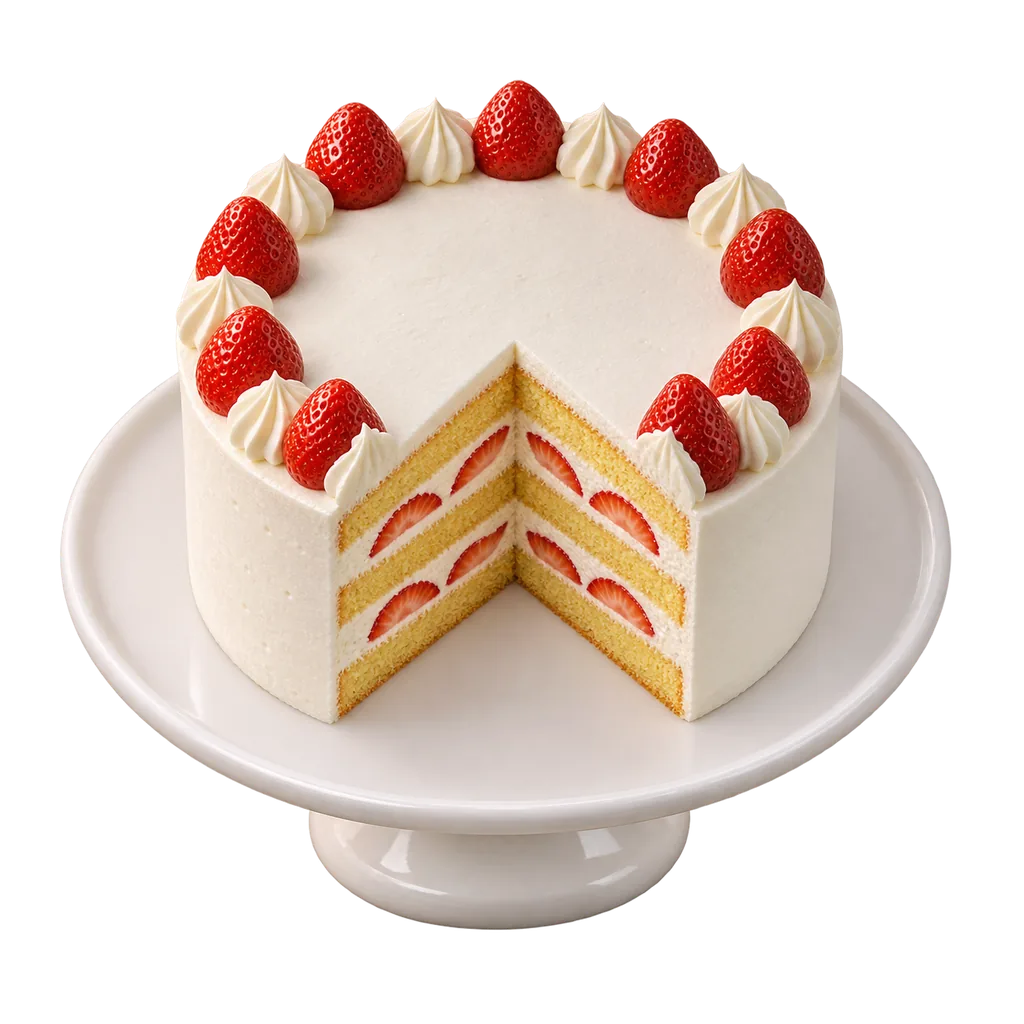
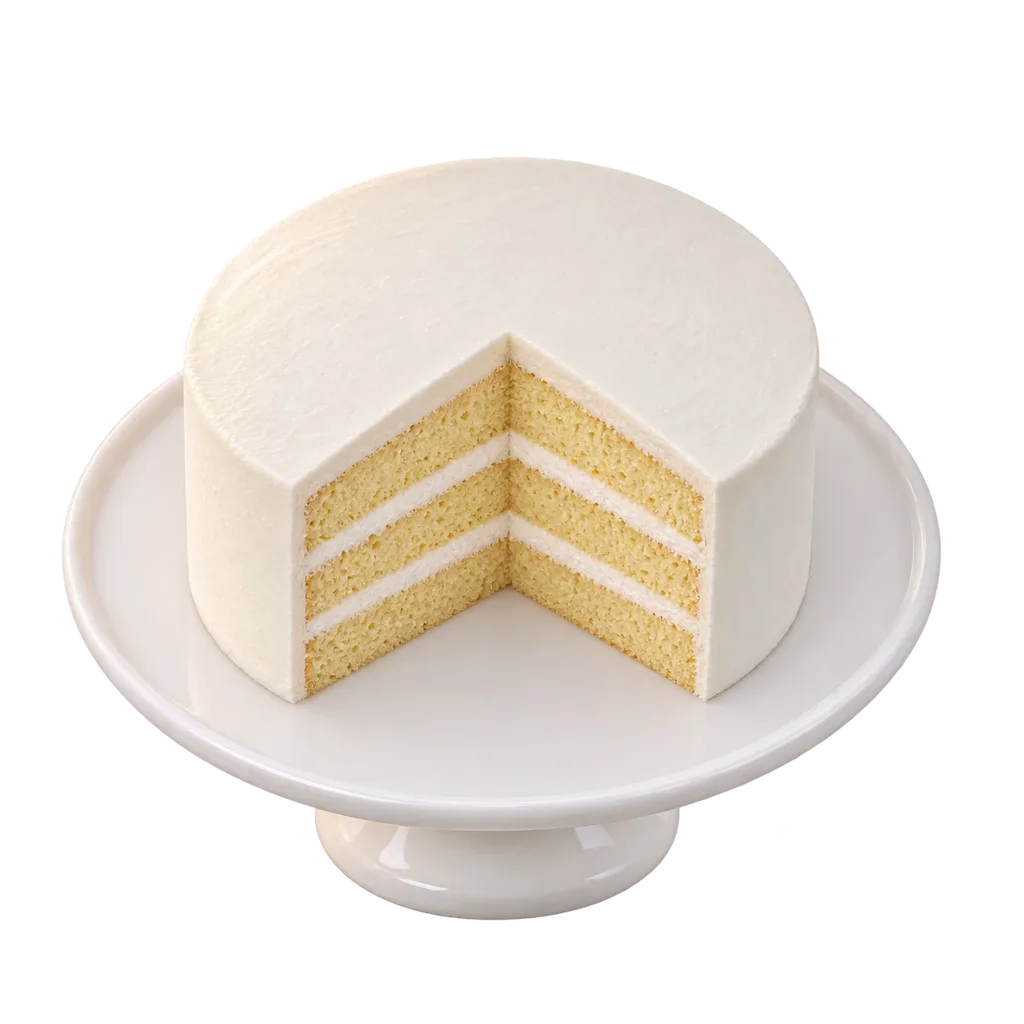
Replace cut cake and slice with undecorated versions
Align the new cake_cut to cake_naked's framing so the swap on cutting
doesn't jump, and match the cut wedge angles to the photo.

Claude-Session: https://claude.ai/code/session_01FuLRt5YMuJuuwaHCD2YKxu

diff --git a/east-christmas/index.html b/east-christmas/index.html
@@ -923,7 +923,7 @@ const CFG = {
 /* 実画像に合わせて微調整する位置情報（画像サイズに対する割合） */
 const GEO = {
   cakeTop: { cx: .487, cy: .35, rx: .30, ry: .195 }, // cake_naked の上面の楕円
-  cut: { cx: .5, cy: .335, a1: 45, a2: 135 },        // cake_cut の切り口（頂点と、楕円上の角度）
+  cut: { cx: .5, cy: .33, a1: 40, a2: 133 },         // cake_cut の切り口（頂点と、楕円上の角度）
   cakeTopRatio: .86,                                 // top_* 画像の幅に対するケーキ直径の割合
 };
 
